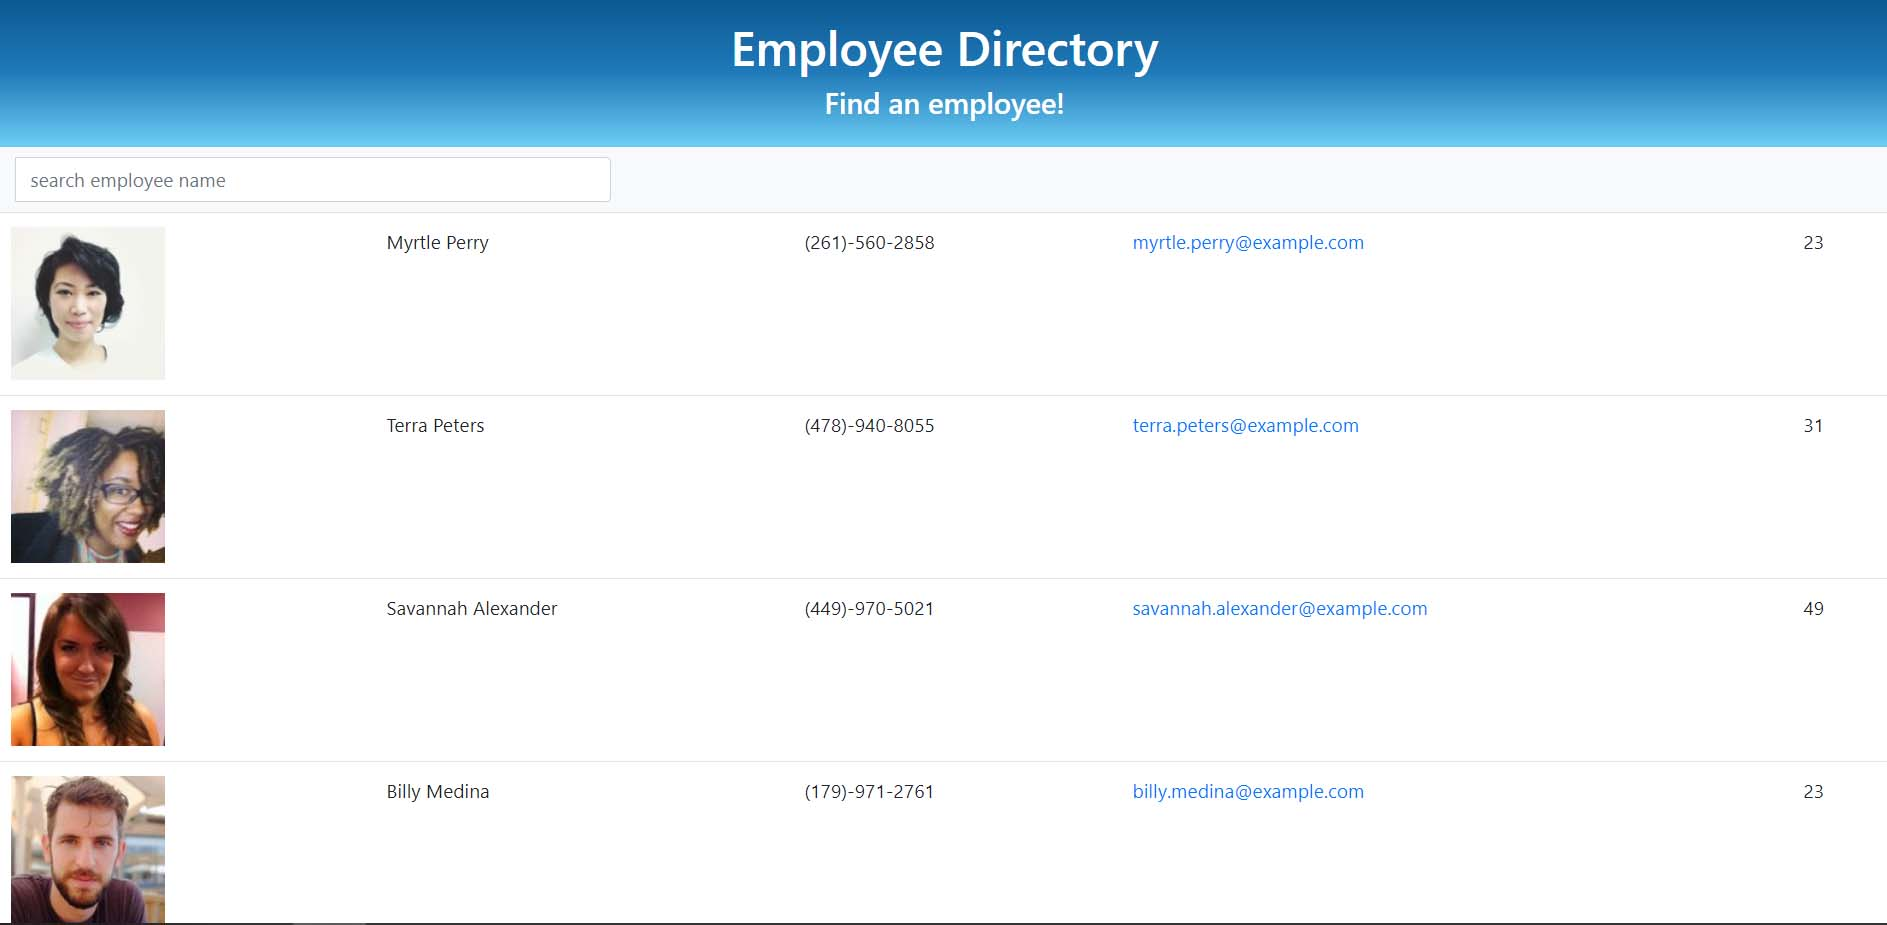
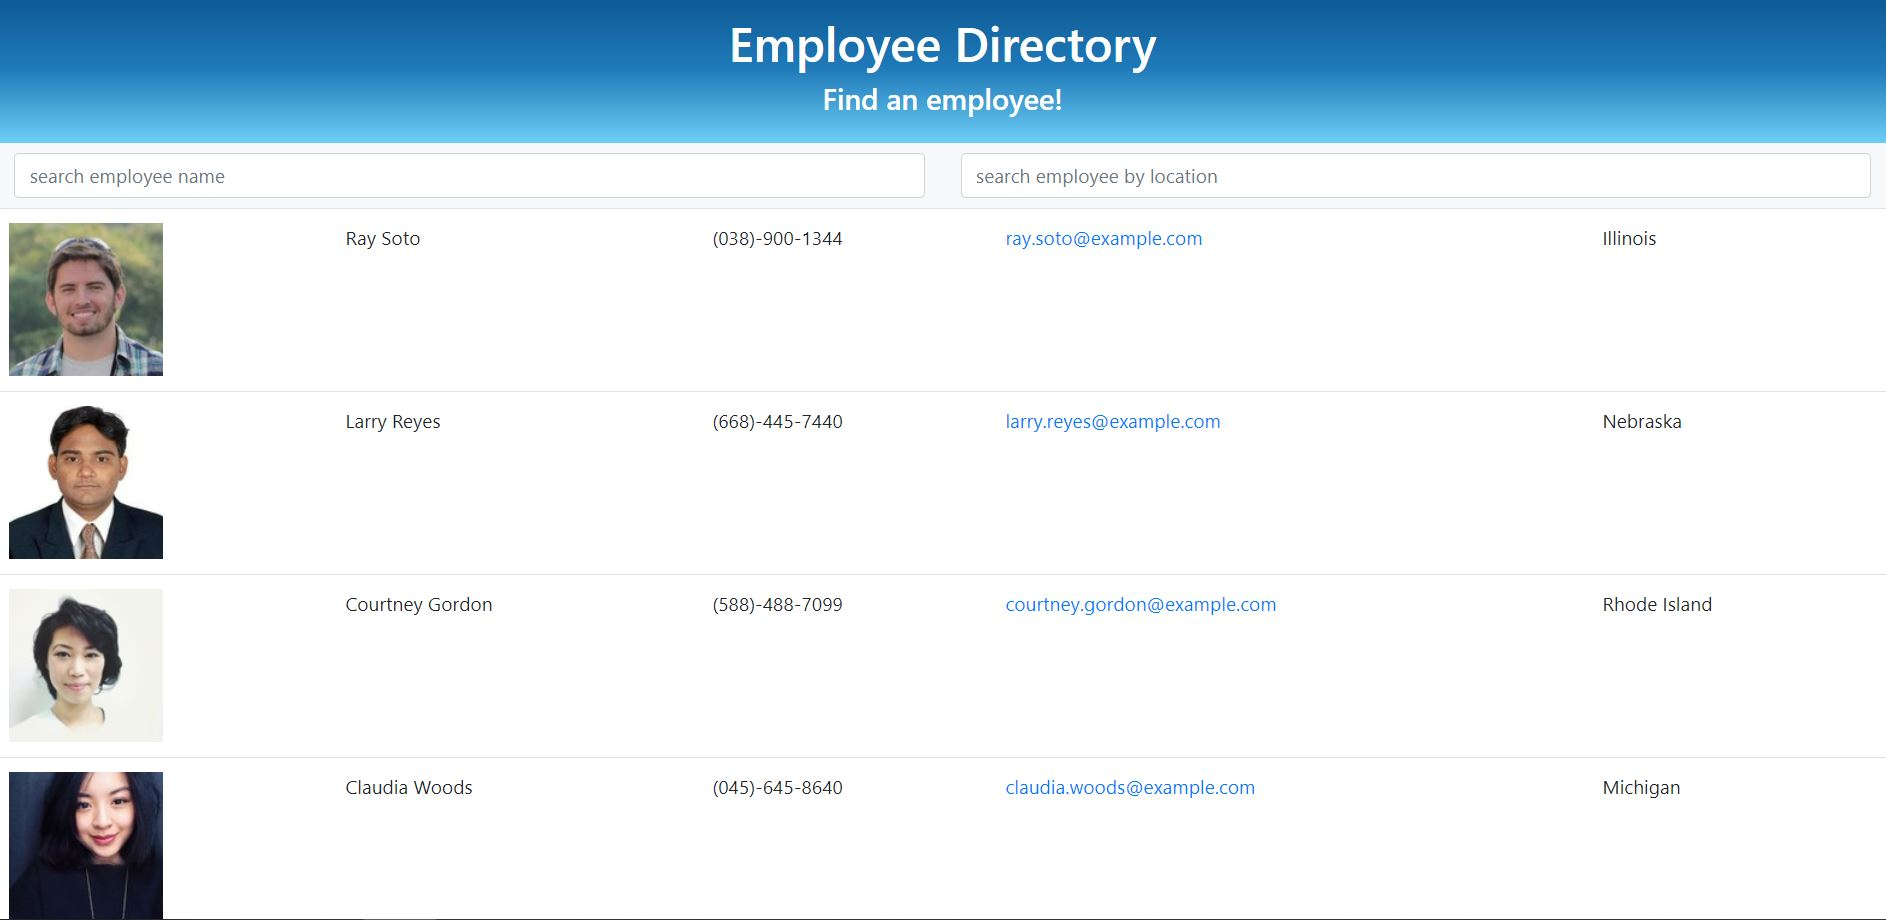
updated picture and readme

diff --git a/README.md b/README.md
@@ -1,7 +1,8 @@
-# Employee-Directory
+# EmployeeDirectory
+
 ## Overview
 
-For this assignment, you'll create a employee directory with React. This assignment will require you to break up your application's UI into components, manage component state, and respond to user events.
+Users can filter employees within this employee directory by either first name, last name, or location. Simply type in the input box and the table will begin to filter.
 
 ## User Story
 
@@ -14,5 +15,13 @@ An employee or manager would benefit greatly from being able to view non-sensiti
 ## Employee Directory
 
 ![employee-directory](img/employee-directory.jpg)
+
+## Technology 
+* React
+* Axios
+* HTML
+* CSS
+* React-Dom
+* Random User API
 
 
